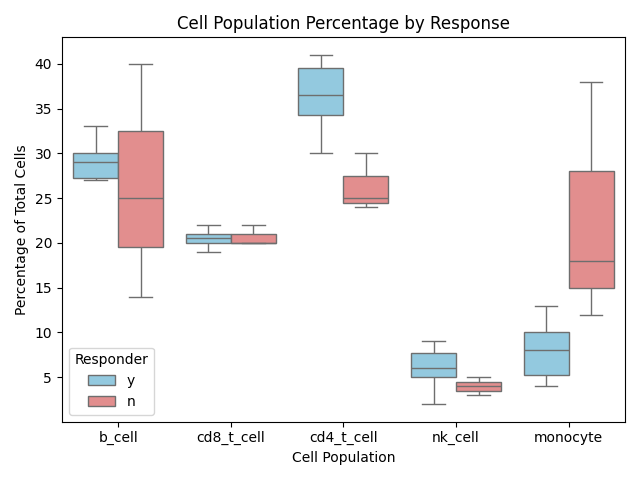
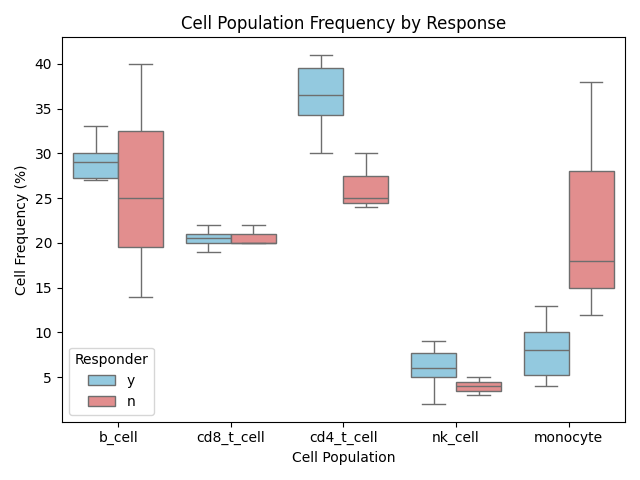
Updated plot labels

Changed region(s): [[0.0, 0.3125, 0.0625, 0.6562], [0.2812, 0.0312, 0.8125, 0.0625]]

diff --git a/Python/2/plots.py b/Python/2/plots.py
@@ -29,16 +29,16 @@ non_responders = filtered_data[filtered_data['response'] == 'n'][['population', 
 # Create the boxplot
 plt.figure()
 sns.boxplot(
-    x='population', 
-    y='percentage', 
-    hue='response', 
+    x='population',
+    y='percentage',
+    hue='response',
     data=pd.concat([responders, non_responders]),
     palette={'y': 'skyblue', 'n': 'lightcoral'},
     dodge=True
 )
-plt.title('Cell Population Percentage by Response')
+plt.title('Cell Population Frequency by Response')
 plt.xlabel('Cell Population')
-plt.ylabel('Cell Frequency')
+plt.ylabel('Cell Frequency (%)')
 plt.legend(title='Responder', loc='lower left')
 plt.tight_layout()
 plt.savefig('cell_population_response.png')
